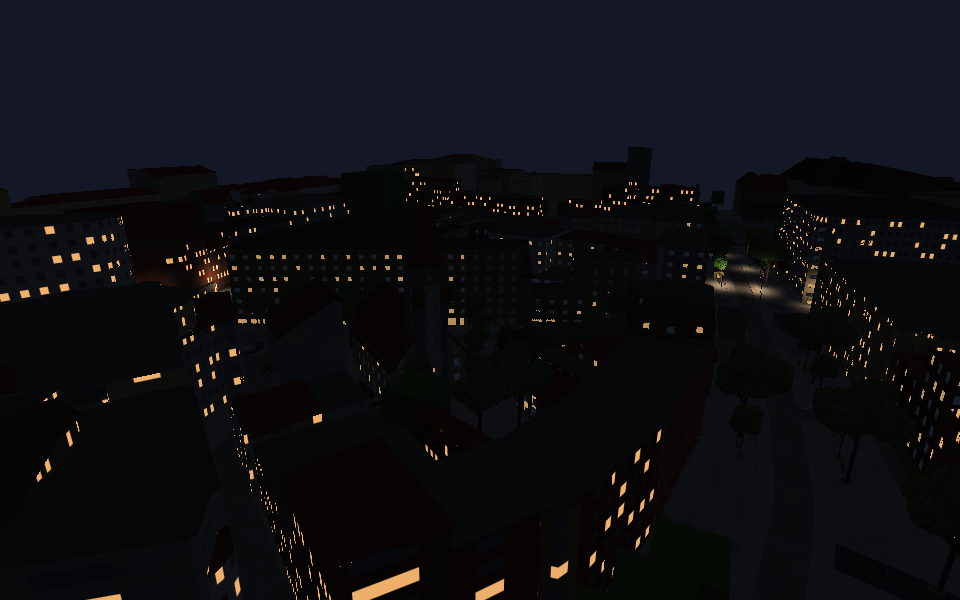
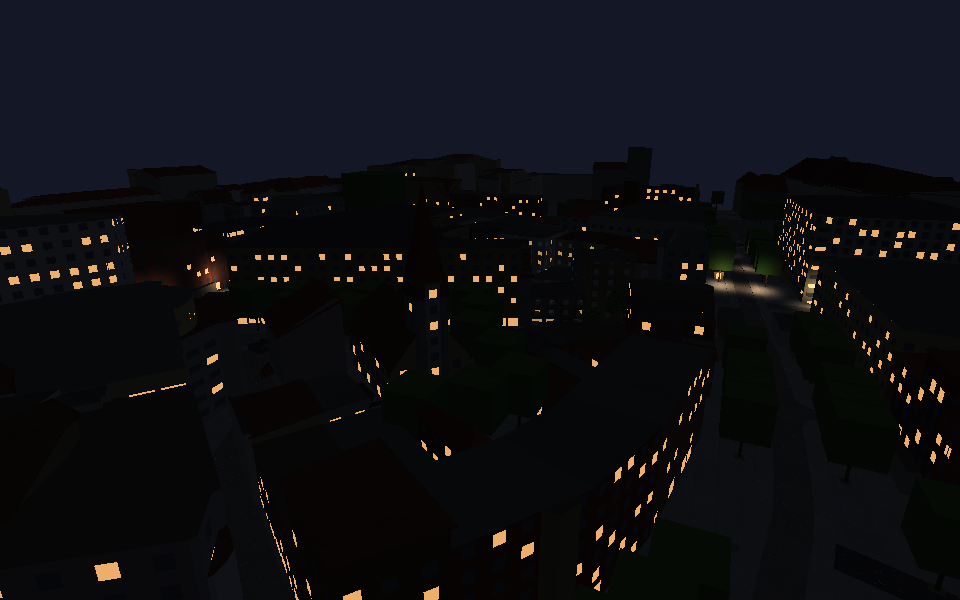
Ferne Stufe: Fenster und Türen aus der Fassadenplanung
FarMesher.FarWindows zeichnet je Öffnung eine Fläche vor der Wand
(Raser.Facade.Panes wie die nahe Stufe), mit derselben Auslosung der
erleuchteten Fenster (Palette Window/WindowLit, Emission nachts). Die
Fassaden-Textur mit festem Raster entfällt für die Wände.
fire master c9e8e84: Tests Core 20, World 25, Mesh 17.

Claude-Session: https://claude.ai/code/session_01Sz1bBYhg2rSfVgnCNfqZBp

diff --git a/ROADMAP.md b/ROADMAP.md
@@ -54,7 +54,8 @@ Eine Kachelregion (z. B. Bochum-Innenstadt, 2 × 2 km) wird von den Rohdaten üb
   - [x] Fenster, Türen und Tore als eingehängte Elemente (Raser.Facade.Panes, Generator 23): je Öffnung ein Parallelogramm zwischen linker und rechter Laibung, Glas mit Rahmenleisten, Türblatt mit Oberlicht - glatt auch in schrägen und runden Wänden; die Wand lässt nur die Öffnung frei. Dasselbe Prinzip für den Baumodus: linken und rechten Rand setzen, die Scheibe spannt sich dazwischen
   - [x] Pavillons ohne Zwischendecke hinter den hohen Scheiben
   - [ ] Elemente auch für Balkontüren, Schaufenster über Eck
-  - [ ] Die ferne Stufe (Fassaden-Textur) nach derselben Planung; Fenster mit Fensterbank, Laibung nach innen versetzt; Türen als Bauelement zwischen zwei Wänden; Vordächer und Markisen an Läden
+  - [x] Die ferne Stufe nach derselben Planung: je Öffnung eine Fläche vor der Wand (FarMesher.FarWindows), nachts dieselben erleuchteten Fenster - kein Umspringen beim Näherkommen
+  - [ ] Fenster mit Fensterbank, Laibung nach innen versetzt; Türen als Bauelement zwischen zwei Wänden; Vordächer und Markisen an Läden
   - [ ] Die innere Kante dicker Wände (hinter Schnitten) treppt in den Fensteröffnungen; Glas spiegelt kaum (Licht und Wetter)
 - [ ] (aufgegangen in den Bauelementen) Gerade Fronten in jedem Winkel: senkrechter Schnitt im Grundriss je Voxel (zwei Randpunkte in Vierteln, mit den Nachbarn geteilt), Fassaden schräg zum Gitter glatt, Fenster entlang der Wand; Grundstücke zur Straße ausrichten (gemeinsame Fluchtlinie), an der Grundstücksgrenze schräg abschneiden
 - [ ] Später: Grünstreifen an der Straße und Mittelstreifen (mit Bäumen), Verkehrsberuhigung in 30er-Zonen - Einengungen und Verschwenkungen, Drempel und Aufpflasterungen (OSM `traffic_calming=bump/hump/table/choker/chicane`, `zone:maxspeed=DE:30`)
